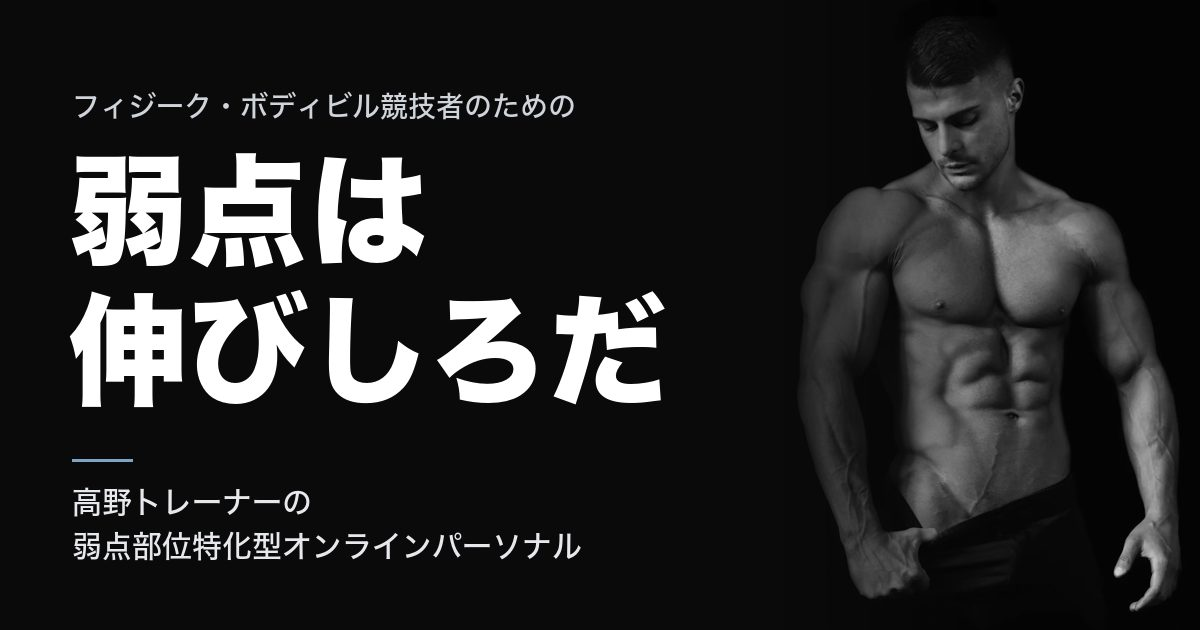
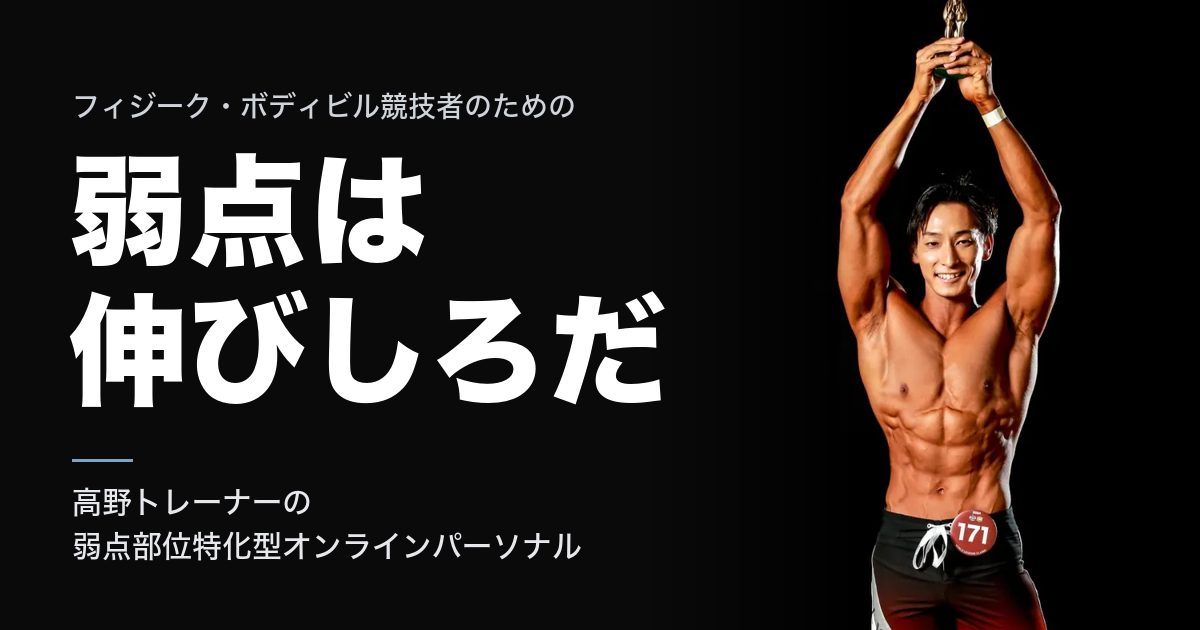
Use provided photos for hero and before/after; move before/after up
- Hero and OGP now use the provided contest photo
- Before/after shown side by side right after the hero
- Drop body-part list from hero lead; remove unused stock files

Changed region(s): [[0.6475, 0.0, 0.9867, 1.0]]

diff --git a/index.html b/index.html
@@ -15,14 +15,14 @@
 <meta property="og:site_name" content="パーソナルジム ミンティーズ（Mintea's）" />
 <meta property="og:title" content="弱点は伸びしろだ｜弱点部位特化型オンラインパーソナル" />
 <meta property="og:description" content="フィジーク・ボディビル競技者のための、高野トレーナーによる弱点部位特化型オンラインパーソナル。" />
-<!-- TODO(OGP): images/ogp.jpg は仮画像（Unsplash）から作成。本人・選手写真で作り直し推奨 -->
+<!-- OGP: images/ogp.jpg はファーストビュー写真から作成 -->
 <meta property="og:image" content="https://minteas.github.io/takano-weakpoint-lp/images/ogp.jpg" />
 <meta property="og:url" content="https://minteas.github.io/takano-weakpoint-lp/" />
 <meta property="og:locale" content="ja_JP" />
 <meta name="twitter:card" content="summary_large_image" />
 
 <link rel="icon" type="image/svg+xml" href="images/favicon.svg" />
-<link rel="preload" as="image" href="images/stock/hero.webp" fetchpriority="high" />
+<link rel="preload" as="image" href="images/photos/hero.webp" fetchpriority="high" />
 
 <!-- ANALYTICS: GTMのコンテナIDが決まったら、下のコメントを外して GTM-XXXXXXX を差し替え。
      CTAクリックは dataLayer に event: "cta_click" で送信済み（js/main.js）。
@@ -69,20 +69,47 @@
 <main id="main">
 
   <!-- ============ 1｜ファーストビュー：全面写真＋大きなキャッチ ============ -->
-  <!-- 写真差し替え: images/stock/hero.webp（仮画像）。本番は選手・本人写真推奨。縦長、人物はやや右寄せ -->
+  <!-- 写真: images/photos/hero.webp（提供写真） -->
   <section class="hero" aria-labelledby="hero-title">
     <figure class="hero__media">
-      <img src="images/stock/hero.webp" alt="" width="1000" height="1432" fetchpriority="high" decoding="async" />
-      <figcaption class="img-tag">イメージ写真</figcaption>
+      <img src="images/photos/hero.webp" alt="大会でトロフィーを掲げるフィジーク選手" width="1000" height="1500" fetchpriority="high" decoding="async" />
     </figure>
     <div class="hero__inner">
       <p class="hero__eyebrow"><span>PHYSIQUE / BODYBUILDING</span>コンテスト出場者のための</p>
       <h1 class="hero__title" id="hero-title"><span class="nb">弱点は</span><br class="sp-only" /><span class="nb">伸びしろだ</span></h1>
-      <p class="hero__lead">肩の横幅、胸の上部、背中の広がり。<br />伸び悩む部位を、<strong>高野トレーナー</strong>が<br class="sp-only" />オンラインで見直します。</p>
+      <p class="hero__lead">伸び悩む部位を、<strong>高野トレーナー</strong>が<br class="sp-only" />オンラインで見直します。</p>
       <div class="hero__cta">
         <a class="btn btn--lg js-cta" href="#contact" data-cta-location="fv">弱点部位について相談する<span class="btn__arrow" aria-hidden="true"></span></a>
         <p class="cta-note"><span data-todo="相談の受付方法・無料かどうか">LINEで受付・相談無料（予定）</span></p>
       </div>
+    </div>
+  </section>
+
+  <!-- ============ 2｜Before / After（提供写真） ============ -->
+  <!-- TODO(CASES): 写真の本人同意・大会公式写真（FWJ）の利用可否を確認。期間・部位・大会を記入 -->
+  <section class="section results" id="results" aria-labelledby="results-title">
+    <div class="container">
+      <p class="results__en reveal" aria-hidden="true">BEFORE / AFTER</p>
+      <h2 class="h-xl reveal" id="results-title">背中は、<br class="sp-only" />ここまで変わる。</h2>
+      <figure class="ba reveal">
+        <div class="ba__pair">
+          <div class="ba__col">
+            <img src="images/photos/before.webp" alt="BEFORE：トレーニング開始前の背中" width="800" height="1067" loading="lazy" decoding="async" />
+            <span class="ba__tag">BEFORE</span>
+          </div>
+          <span class="ba__arrow" aria-hidden="true"></span>
+          <div class="ba__col">
+            <img src="images/photos/after.webp" alt="AFTER：大会ステージでのバックポーズ" width="800" height="1240" loading="lazy" decoding="async" />
+            <span class="ba__tag ba__tag--after">AFTER</span>
+          </div>
+        </div>
+        <dl class="ba__meta" data-todo="Before/Afterの期間・重点部位・大会">
+          <div><dt>期間</dt><dd>XX</dd></div>
+          <div><dt>重点部位</dt><dd>XX</dd></div>
+          <div><dt>大会</dt><dd>XX</dd></div>
+        </dl>
+      </figure>
+      <p class="note">※個人の結果であり、変化には個人差があります。</p>
     </div>
   </section>
 
@@ -337,31 +364,6 @@
         <p>どこから変えるべきか、まずは話してみませんか。</p>
         <a class="btn btn--lg js-cta" href="#contact" data-cta-location="after_service">弱点部位について相談する<span class="btn__arrow" aria-hidden="true"></span></a>
       </div>
-    </div>
-  </section>
-
-  <!-- ============ 7｜事例：大きな比較写真 ============ -->
-  <!-- TODO(CASES): 仮画像。本人の同意を得た「同一人物・同条件」の写真のみ掲載。用意できなければセクションごと削除 -->
-  <section class="section results" id="results" aria-labelledby="results-title">
-    <div class="container">
-      <h2 class="h-xl reveal" id="results-title">変化は、<br class="sp-only" />写真で見せる。</h2>
-      <figure class="ba reveal" data-todo="Before/After写真（同一人物・同意済み）">
-        <div class="ba__stage" style="--pos: 50%">
-          <img class="ba__img" src="images/stock/sample-after.webp" alt="AFTERの仮画像" width="700" height="1050" loading="lazy" decoding="async" />
-          <div class="ba__before"><img class="ba__img" src="images/stock/sample-before.webp" alt="BEFOREの仮画像" width="700" height="1050" loading="lazy" decoding="async" /></div>
-          <span class="ba__tag ba__tag--l">BEFORE</span><span class="ba__tag ba__tag--r">AFTER</span>
-          <span class="ba__handle" aria-hidden="true"></span>
-          <span class="ba__sample" aria-hidden="true">SAMPLE</span>
-          <input class="ba__range" type="range" min="0" max="100" value="50" aria-label="BeforeとAfterの表示比率" />
-        </div>
-        <dl class="ba__meta">
-          <div><dt>期間</dt><dd>XX日</dd></div>
-          <div><dt>重点部位</dt><dd>XX</dd></div>
-          <div><dt>大会</dt><dd>XX</dd></div>
-        </dl>
-        <figcaption class="ba__warn">サンプル表示｜レイアウト確認用の仮画像です。実際の受講者・指導実績ではありません。</figcaption>
-      </figure>
-      <p class="note">※掲載する事例は個人の結果であり、変化には個人差があります。</p>
     </div>
   </section>
 

diff --git a/css/style.css b/css/style.css
@@ -113,7 +113,7 @@ h1, h2, h3, .part__jp, .final__lead, .bignum__t { word-break: auto-phrase; }
 /* ---------- 1. Hero ---------- */
 .hero { position: relative; min-height: 100svh; display: flex; align-items: flex-end; overflow: hidden; isolation: isolate; }
 .hero__media { position: absolute; inset: 0; z-index: -1; }
-.hero__media img { width: 100%; height: 100%; object-fit: cover; object-position: 62% 12%; filter: grayscale(0.25) contrast(1.05); }
+.hero__media img { width: 100%; height: 100%; object-fit: cover; object-position: 50% 0%; }
 .hero__media::after {
   content: ""; position: absolute; inset: 0;
   background: linear-gradient(180deg, rgba(10, 10, 11, 0.35) 0%, rgba(10, 10, 11, 0) 22%, rgba(10, 10, 11, 0.35) 48%, rgba(10, 10, 11, 0.94) 72%, var(--bg) 100%);
@@ -313,30 +313,22 @@ h1, h2, h3, .part__jp, .final__lead, .bignum__t { word-break: auto-phrase; }
 .cta-inline p { font-weight: 700; font-size: 17px; }
 .cta-inline--plain { margin-top: 40px; }
 
-/* ---------- 7. Results (before/after) ---------- */
-.results { background: var(--bg); }
-.ba { margin-top: 32px; }
-.ba__stage { position: relative; aspect-ratio: 2 / 3; max-height: 82vh; margin: 0 calc(var(--gutter) * -1); overflow: hidden; background: #000; user-select: none; }
-.ba__img { position: absolute; inset: 0; width: 100%; height: 100%; object-fit: cover; }
-.ba__before { position: absolute; inset: 0; clip-path: inset(0 calc(100% - var(--pos)) 0 0); }
-.ba__before .ba__img { filter: grayscale(1) brightness(0.85); }
-.ba__handle { position: absolute; top: 0; bottom: 0; left: var(--pos); width: 2px; background: #fff; transform: translateX(-1px); z-index: 2; pointer-events: none; }
-.ba__handle::after { content: "‹ ›"; position: absolute; top: 50%; left: 50%; transform: translate(-50%, -50%); width: 44px; height: 44px; border-radius: 50%; background: #fff; color: #000; display: grid; place-items: center; font-weight: 700; font-size: 18px; letter-spacing: 2px; box-shadow: 0 6px 20px rgba(0, 0, 0, 0.5); }
-.ba__tag { position: absolute; top: 14px; z-index: 2; font-family: var(--font-en); font-weight: 700; font-size: 14px; letter-spacing: 0.22em; background: rgba(0, 0, 0, 0.6); padding: 4px 10px; }
-.ba__tag--l { left: 14px; } .ba__tag--r { right: 14px; }
-.ba__sample {
-  position: absolute; inset: 0; display: grid; place-items: center; z-index: 1; pointer-events: none;
-  font-family: var(--font-en); font-weight: 800; font-style: italic; font-size: clamp(64px, 22vw, 180px); letter-spacing: 0.06em;
-  color: rgba(255, 255, 255, 0.12); -webkit-text-stroke: 1.5px rgba(224, 180, 90, 0.85); transform: rotate(-12deg);
-}
-.ba__range { position: absolute; inset: 0; width: 100%; height: 100%; opacity: 0; cursor: ew-resize; z-index: 3; margin: 0; }
-.ba__range:focus-visible + * , .ba__stage:focus-within { outline: 2px solid var(--blue); outline-offset: -2px; }
+/* ---------- 2. Results (before/after) ---------- */
+.results { background: var(--bg); padding: 72px 0 48px; border-bottom: 1px solid var(--line); }
+.results__en { font-family: var(--font-en); font-weight: 800; font-style: italic; font-size: 15px; letter-spacing: 0.3em; color: var(--blue); margin-bottom: 8px; }
+.ba { margin-top: 28px; }
+.ba__pair { position: relative; display: grid; grid-template-columns: 1fr 1fr; gap: 4px; margin: 0 calc(var(--gutter) * -1); }
+.ba__col { position: relative; aspect-ratio: 3 / 4.4; overflow: hidden; background: #000; }
+.ba__col img { width: 100%; height: 100%; object-fit: cover; object-position: 50% 12%; }
+.ba__tag { position: absolute; left: 8px; top: 8px; font-family: var(--font-en); font-weight: 700; font-size: 13px; letter-spacing: 0.22em; background: rgba(0, 0, 0, 0.65); color: var(--silver); padding: 3px 9px; }
+.ba__tag--after { background: #fff; color: #0a0a0b; }
+.ba__arrow { position: absolute; left: 50%; top: 50%; z-index: 2; width: 40px; height: 40px; border-radius: 50%; background: #fff; transform: translate(-50%, -50%); box-shadow: 0 6px 20px rgba(0, 0, 0, 0.5); }
+.ba__arrow::after { content: ""; position: absolute; left: 13px; top: 14px; width: 10px; height: 10px; border-top: 2px solid #0a0a0b; border-right: 2px solid #0a0a0b; transform: rotate(45deg); }
 .ba__meta { display: grid; grid-template-columns: repeat(3, 1fr); border-bottom: 1px solid var(--line); }
 .ba__meta > div { padding: 14px 10px; border-right: 1px solid var(--line); }
 .ba__meta > div:last-child { border-right: 0; }
 .ba__meta dt { font-size: 11px; color: var(--muted); }
 .ba__meta dd { font-family: var(--font-en); font-weight: 700; font-size: 26px; line-height: 1.1; }
-.ba__warn { margin-top: 12px; font-size: 12px; font-weight: 700; color: var(--warn); }
 
 /* ---------- 8. Trainer ---------- */
 .trainer { position: relative; background: var(--bg-2); border-top: 1px solid var(--line); padding-bottom: 88px; }
@@ -441,11 +433,11 @@ h1, h2, h3, .part__jp, .final__lead, .bignum__t { word-break: auto-phrase; }
 
   /* hero: text left, photo right */
   .hero { align-items: center; }
-  .hero__media { left: 34%; }
-  .hero__media img { object-position: 50% 15%; }
-  .hero__media::after { background: linear-gradient(90deg, var(--bg) 0%, rgba(10, 10, 11, 0.6) 22%, rgba(10, 10, 11, 0) 55%), linear-gradient(180deg, rgba(10, 10, 11, 0) 70%, var(--bg) 100%); }
+  .hero__media { left: 46%; }
+  .hero__media img { object-position: 50% 18%; }
+  .hero__media::after { background: linear-gradient(90deg, var(--bg) 0%, rgba(10, 10, 11, 0.5) 18%, rgba(10, 10, 11, 0) 40%), linear-gradient(180deg, rgba(10, 10, 11, 0) 70%, var(--bg) 100%); }
   .hero__inner { padding-top: var(--header-h); padding-bottom: 0; }
-  .hero__title { font-size: clamp(96px, 11vw, 148px); }
+  .hero__title { font-size: clamp(76px, 7.6vw, 120px); }
   .hero__lead { font-size: 17px; }
 
   .proof { padding: 40px 0 48px; }
@@ -473,9 +465,10 @@ h1, h2, h3, .part__jp, .final__lead, .bignum__t { word-break: auto-phrase; }
   .method__grid { grid-template-columns: 1fr 380px; gap: 80px; align-items: center; }
   .bignum__n { font-size: 132px; }
 
-  .ba__stage { margin: 0 auto; max-width: 720px; aspect-ratio: 4 / 5; }
-  .ba__meta { max-width: 720px; margin: 0 auto; }
-  .ba__warn, .results .note { max-width: 720px; margin-left: auto; margin-right: auto; }
+  .ba__pair { margin: 0 auto; max-width: 860px; gap: 8px; }
+  .ba__meta, .results .note { max-width: 860px; margin-left: auto; margin-right: auto; }
+  .ba__arrow { width: 52px; height: 52px; }
+  .ba__arrow::after { left: 17px; top: 19px; width: 12px; height: 12px; }
 
   .trainer { display: grid; grid-template-columns: 1fr 1fr; padding-bottom: 0; }
   .trainer__photo { aspect-ratio: auto; min-height: 100%; }

diff --git a/js/main.js b/js/main.js
@@ -55,14 +55,6 @@ var CONFIG = {
     img.addEventListener("error", function () { img.setAttribute("hidden", ""); });
   });
 
-  /* ---------- Before / After 比較スライダー ---------- */
-  document.querySelectorAll(".ba__stage").forEach(function (stage) {
-    var range = stage.querySelector(".ba__range");
-    function set() { stage.style.setProperty("--pos", range.value + "%"); }
-    range.addEventListener("input", set);
-    set();
-  });
-
   /* ---------- ヘッダー背景 ---------- */
   var header = document.querySelector(".site-header");
   function onScroll() { header.classList.toggle("is-scrolled", window.scrollY > 20); }

diff --git a/images/stock/CREDITS.md b/images/stock/CREDITS.md
@@ -6,14 +6,21 @@
 
 | ファイル | 用途 | 元写真 | 本番での扱い |
 |---|---|---|---|
-| hero.webp | ファーストビュー | https://unsplash.com/photos/qYn2Z55Glds | 差し替え推奨（選手・本人写真） |
 | part-shoulder.webp | 悩み：肩 | https://unsplash.com/photos/9y4MaTz2Js0 | イメージ写真として継続利用可 |
 | part-chest.webp | 悩み：胸上部 | https://unsplash.com/photos/uQ9CSV9eJYw | イメージ写真として継続利用可 |
 | part-back.webp | 悩み：背中 | https://unsplash.com/photos/_nUKpvm9I0w | イメージ写真として継続利用可 |
 | analysis.webp | 分析の注釈 | https://unsplash.com/photos/tM-AOYwCK_Y | イメージ写真として継続利用可 |
 | form-flat.webp | フォーム比較・動画 | https://unsplash.com/photos/fGAgXh6QQEU | 差し替え推奨（指導風景） |
 | form-incline.webp | フォーム比較 | https://unsplash.com/photos/Pv97-3sdjdY | 差し替え推奨（指導風景） |
-| sample-before.webp / sample-after.webp | Before / After の枠 | https://unsplash.com/photos/YTd52Cf51FI / https://unsplash.com/photos/mg1n1NScLHk | **必ず差し替え**（同意済みの実例のみ）。無ければセクション削除 |
 | coach.webp | トレーナー紹介 | https://unsplash.com/photos/NC7ynqvd48A | **必ず差し替え**（高野トレーナー本人） |
 | coaching.webp | 指導風景 | https://unsplash.com/photos/5p8vhHUEEgY | 差し替え推奨 |
 | final.webp | 最終CTA背景 | https://unsplash.com/photos/wt5jg8_WrJg | イメージ写真として継続利用可 |
+
+# 提供写真（images/photos/）
+
+| ファイル | 用途 | 確認事項 |
+|---|---|---|
+| hero.webp | ファーストビュー | 本人の掲載同意・FWJ大会公式写真の利用可否 |
+| before.webp / after.webp | Before / After | 本人の掲載同意・FWJ大会公式写真の利用可否 |
+
+メタデータ（撮影情報など）は変換時に削除済み。

diff --git a/TODO.md b/TODO.md
@@ -14,7 +14,7 @@
 | 5 | トレーナー情報（名前・トレーニング歴・出場歴・成績・得意分野） | `TODO(PROFILE)`。**確認済みの情報のみ** |
 | 6 | **本人メッセージ**（本人の言葉で） | `.quote`。作文せず、本人に書いてもらう |
 | 7 | 指導方針3項目（案として記載） | `.policy`。本人の方針と違えば修正 |
-| 8 | **Before / After**（現在は仮画像＋SAMPLE表示） | `TODO(CASES)`。同一人物・同条件・本人同意済みのみ。無ければ `#results` セクションごと削除 |
+| 8 | **Before / After**（提供写真に差し替え済み） | `TODO(CASES)`。本人の掲載同意、FWJ大会公式写真の利用可否を確認。期間・重点部位・大会（現在 XX）を記入 |
 | 9 | 料金・プラン（「90 DAYS」も仮プラン） | `TODO(PRICE)`。確定後「仮プラン」バッジを削除 |
 | 10 | 「90 DAYS 改善プログラム」の大きな数字 | `.bignums`。90日プランが無ければ削除 |
 | 11 | 特定商取引法に基づく表記・プライバシーポリシー | フッター `TODO(LEGAL)` |
@@ -33,9 +33,7 @@
 
 | # | 項目 | 変更箇所 |
 |---|---|---|
-| 17 | ファーストビュー写真を選手・本人写真に | `images/stock/hero.webp` |
 | 18 | フォーム比較・動画・指導風景を実際の指導写真に | `form-flat.webp` / `form-incline.webp` |
-| 19 | OGP画像を本人写真で作り直し | `images/ogp.jpg`（1200×630） |
 | 20 | GA4 / GTM | `index.html` の `ANALYTICS` コメント2箇所 |
 
 仮画像の出典・扱いは [images/stock/CREDITS.md](images/stock/CREDITS.md)。肩・胸・背中のイメージ写真など「イメージ写真」表記のものは、そのまま使い続けても問題ありません（Unsplashライセンス：商用可・表記不要）。
